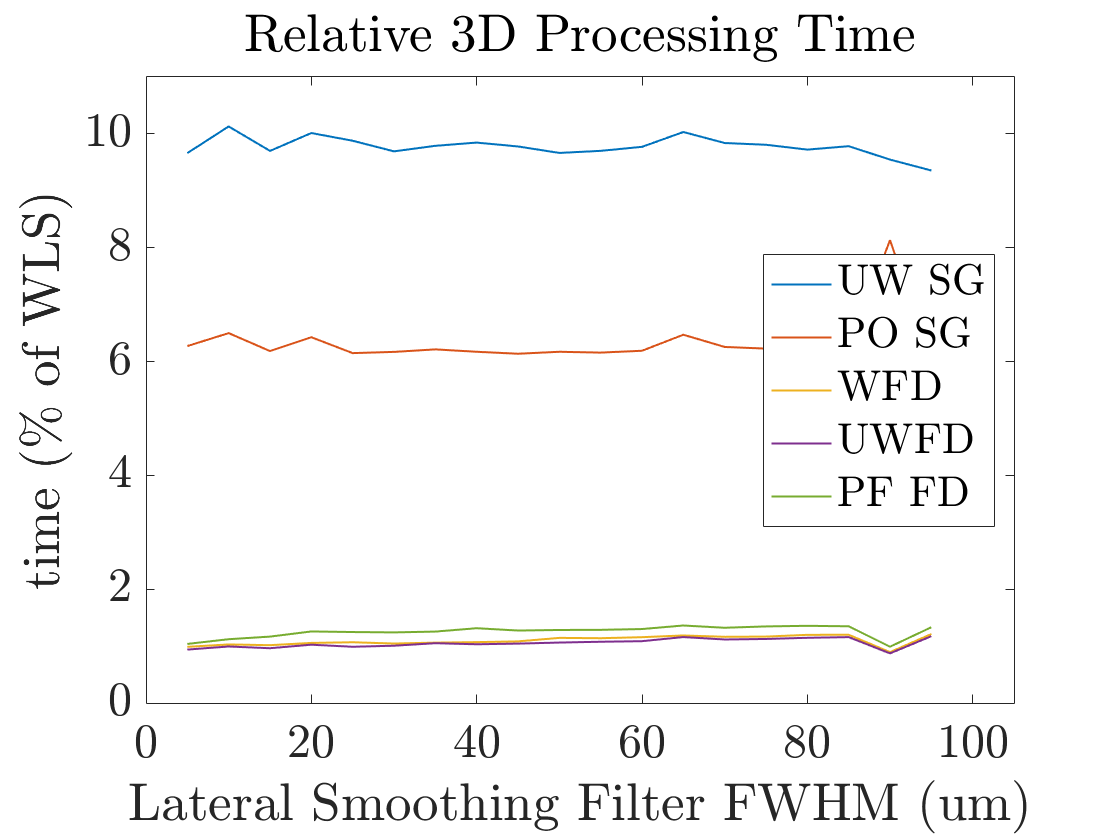
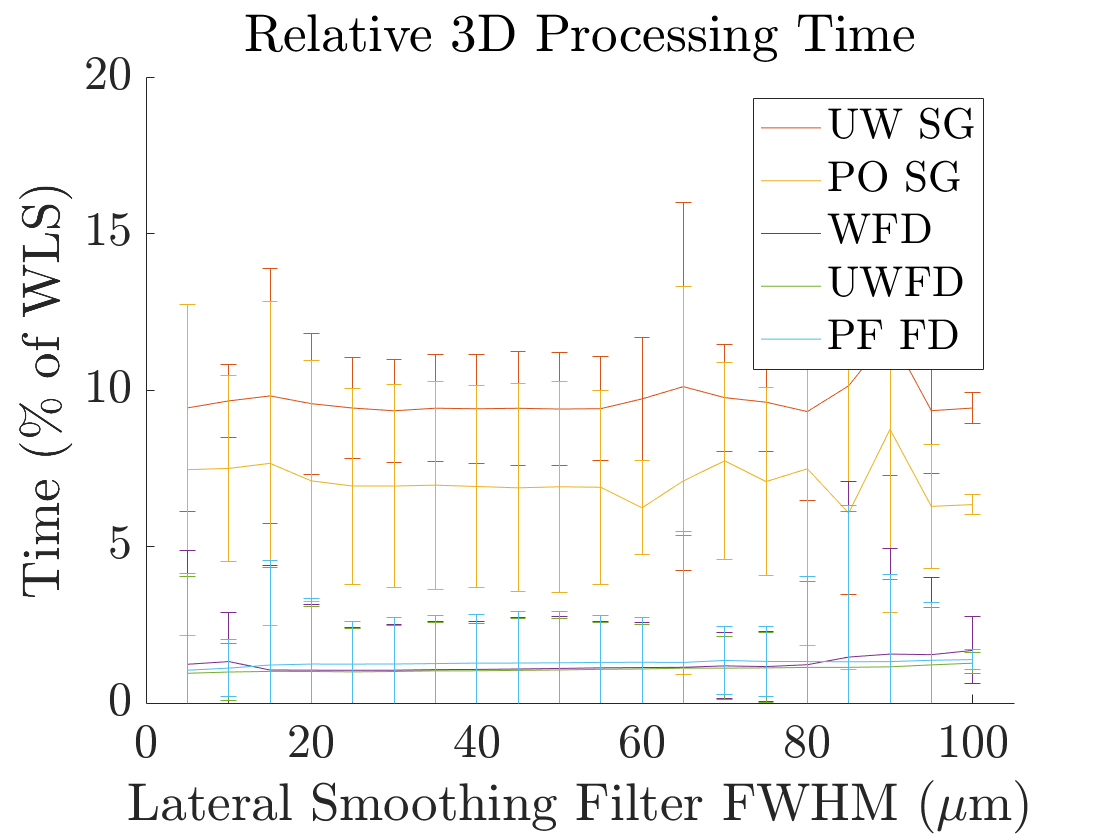
New sensitivity v time plots

diff --git a/Results.tex b/Results.tex
@@ -325,23 +325,13 @@ As a summary of the above two sections, \autoref{sensitivity_time} shows plots o
 	\centering
 	\begin{subfigure}{0.49\textwidth}
 		\centering
-		\includegraphics[width=\textwidth]{figures/sensitivity_2dtime_fr.png}
+		\includegraphics[width=\textwidth]{figures/sensitivity_2dtime.png}
 	\end{subfigure}
 	\begin{subfigure}{0.49\textwidth}
 		\centering
-		\includegraphics[width=\textwidth]{figures/sensitivity_2dtime_lr.png}
+		\includegraphics[width=\textwidth]{figures/sensitivity_3dtime.png}
 	\end{subfigure}
-	\\
-	\begin{subfigure}{0.49\textwidth}
-		\centering
-		\includegraphics[width=\textwidth]{figures/sensitivity_3dtime_fr.png}
-	\end{subfigure}
-	\begin{subfigure}{0.49\textwidth}
-		\centering
-		\includegraphics[width=\textwidth]{figures/sensitivity_3dtime_lr.png}
-	\end{subfigure}
-
-	\caption{Relative processing time in 2D (top) and 3D (bottom) for different sensitivity values based on differing strain filters (left) and lateral smoothing filters (right) for the five strain estimation techniques, relative to \ac{uwwls}. The bottom left region of the plots corresponds to the optimum processing time and sensitivity values.}
+	\caption{Absolute processing time in 2D and 3D for different sensitivity values based on differing strain filters (\textit{o})and lateral smoothing filters (\textit{x}) for the six strain estimation techniques, plotted on a log scale. The bottom left region of the plots corresponds to the optimum processing time and sensitivity values.}
 	\label{sensitivity_time}
 \end{figure}
 
